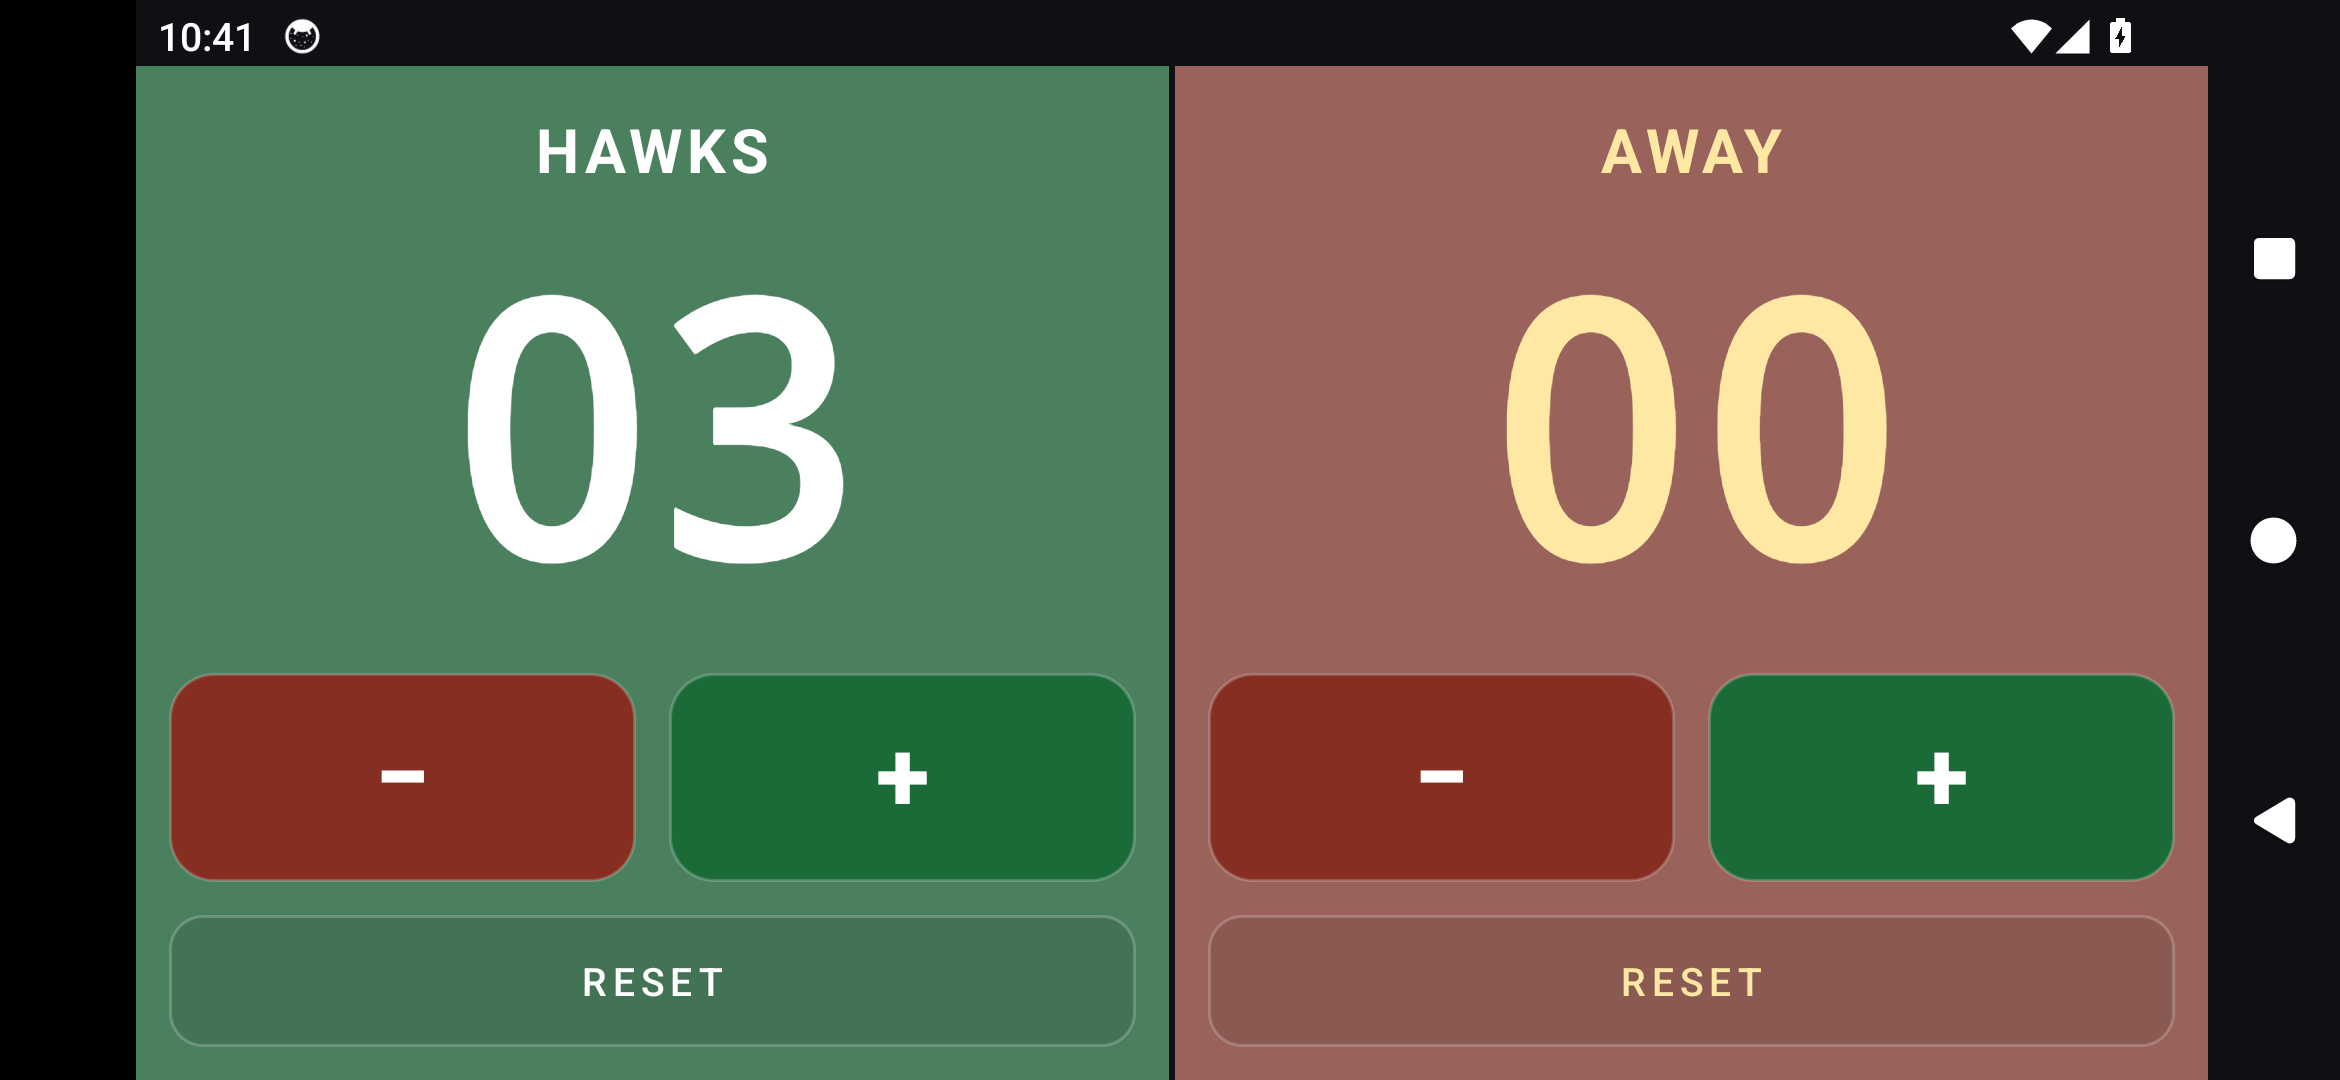
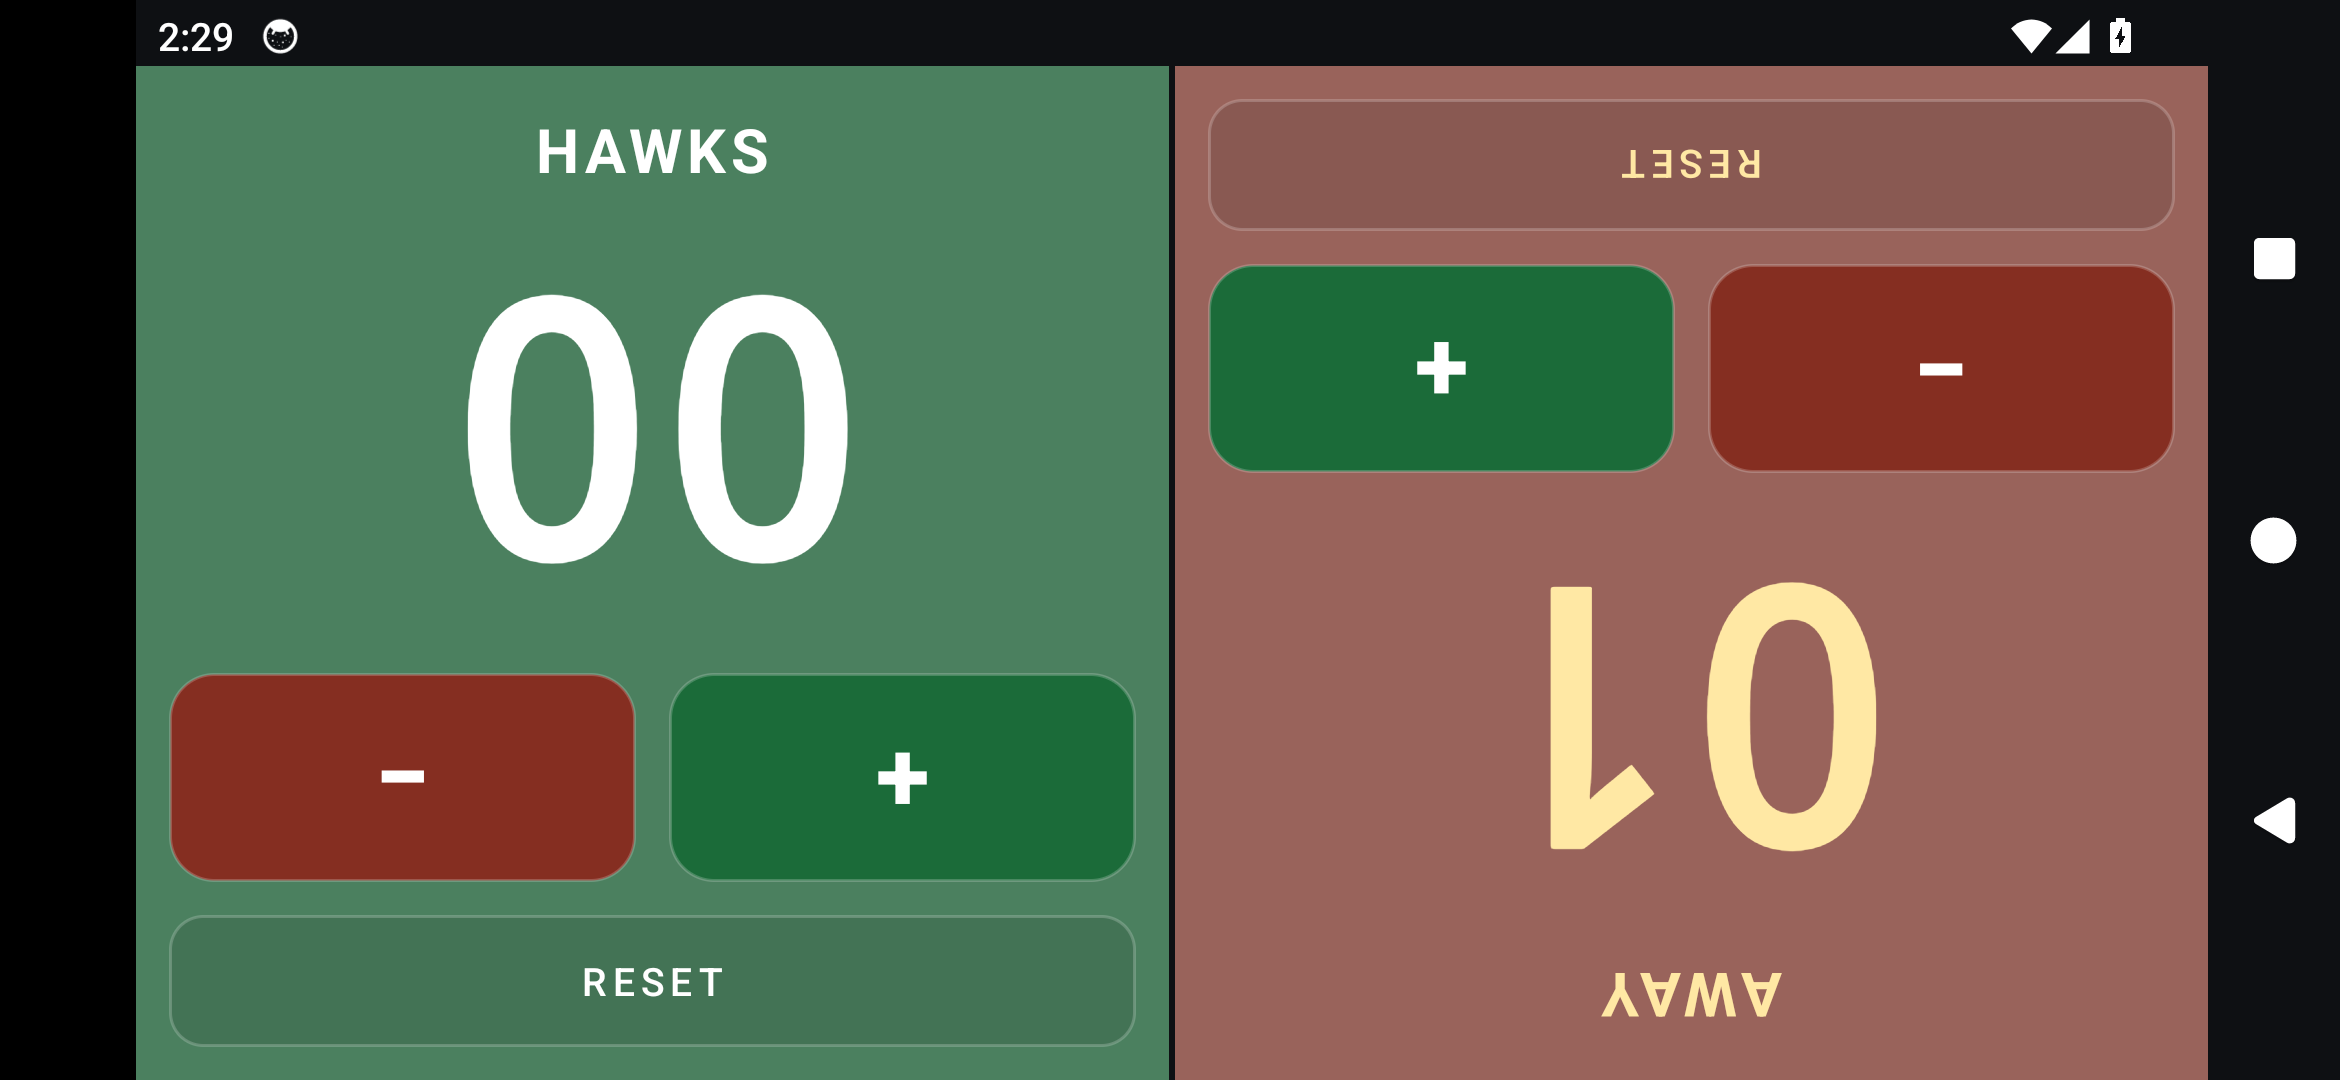
Ship 1.4: point games, the table number, and a board that works without scoring rights
The big one is three digits. The server's own disciplines include 14.1 and 15-ball rotation, both
played to 100 or more, and a two-digit scoreboard could not score them at all. The goal wording now
follows the discipline too - "Race to 7" against "Points to 100" - with "match point" when a side is
one short.

Also in this release: the far half is drawn upside down for the player sitting opposite (hold the
centre bar to flip it back), a linked board leads with its table number, a tournament that is not open
for outside scoring still loads as a view-only board with the reason on screen, coming back to the app
re-reads the match, and a reset asks before it clears a tally on its way to the server.

Screenshots re-taken on this build.

diff --git a/README.md b/README.md
@@ -11,9 +11,9 @@ number to add a point, flick up or down to move the score, hold a team name to r
 
 | | |
 | --- | --- |
-| Version | 1.3 (versionCode 4) |
-| Size | 79,239 bytes |
[1 lines of base64/hex data omitted]
+| Version | 1.4 (versionCode 5) |
+| Size | 87,431 bytes |
[1 lines of base64/hex data omitted]
 | Requires | Android 5.0 (API 21) or newer |
 | Permissions | `INTERNET`, used only when you open a scoring link |
 | Package | `com.kevin.score` |
@@ -47,12 +47,20 @@ With a computer and Android platform-tools instead:
 - **Add a point:** tap the big number, or the green **+**.
 - **Take a point off:** tap the red **−**.
 - **Swipe up or down anywhere on either side** to move that side by one — up adds, down subtracts.
-- **Reset a side:** the **Reset** button under its buttons.
+  The far side is drawn upside down, and its swipes are mirrored with it, so the player sitting
+  opposite reads it upright and their "up" still adds. Hold the centre bar between the halves to flip
+  it back if you are the only one scoring.
+- **Reset a side:** the **Reset** button under its buttons. In a linked match it asks first, because
+  there it clears a tally on its way to the server.
 - **Rename a team:** press and hold the name for about a second. It dims while you hold, then the
   rename dialog opens; let go early and nothing happens. Names are limited to 16 characters, and
   clearing the name restores `HOME` / `AWAY`.
-- Scores run `00`–`99` per side. Names and scores survive rotating the phone, and the screen is kept
-  awake while the app is open — a scoreboard that sleeps mid-match is useless.
+- Scores run `00`–`999` per side. A tournament race only needs two digits, but the point games it
+  supports — 14.1 and 15-ball rotation — are played to 75, 100 or 150. Names and scores survive
+  rotating the phone, and the screen is kept awake **and at full brightness** while the app is open:
+  a pool room is dim, and a scoreboard that sleeps mid-match is useless.
+- The first time you open it, a line at the bottom names the three gestures that are otherwise
+  invisible. It goes away for good once you have scored something.
 
 ![landscape](screenshots/landscape.png)
 
@@ -67,13 +75,23 @@ Without the app installed, the same link opens the tournament's web console in a
 the link always works. The app contacts only the host named in that link, and only to read the match
 and send its result.
 
+The board leads with the **table number** when the tournament has one, because that is what the
+players are listening for. If the tournament is not open for outside scoring, the link still loads it
+— entrants, table and match state, with the tallies working as a plain scoreboard — and says so, with
+**Submit result** disabled, rather than showing an error over a blank screen. Coming back to the app
+re-reads the match, so a correction made at the desk shows up without you doing anything.
+
 **Races are supported too.** Tap the race line to give each side a target — different targets are a
-handicap, like 11 against 9. When either side reaches theirs the app tells you the match is over and
+handicap, like 11 against 9. The wording follows the discipline: a games race reads "Race to 7", while
+14.1 and 15-ball rotation are scored in points and read "Points to 100". A side one point short of its
+target says "match point". When either side reaches theirs the app tells you the match is over and
 offers to submit the result, or to keep editing if that was a mistake.
 
 ![a reached goal offering submit or keep editing](screenshots/race.png)
 
-![a match opened from a scoring link](screenshots/linked.png)
+![a match opened from a scoring link, with its table](screenshots/linked.png)
+
+![a tournament that is not open for scoring: view only](screenshots/view-only.png)
 
 ## Privacy
 
